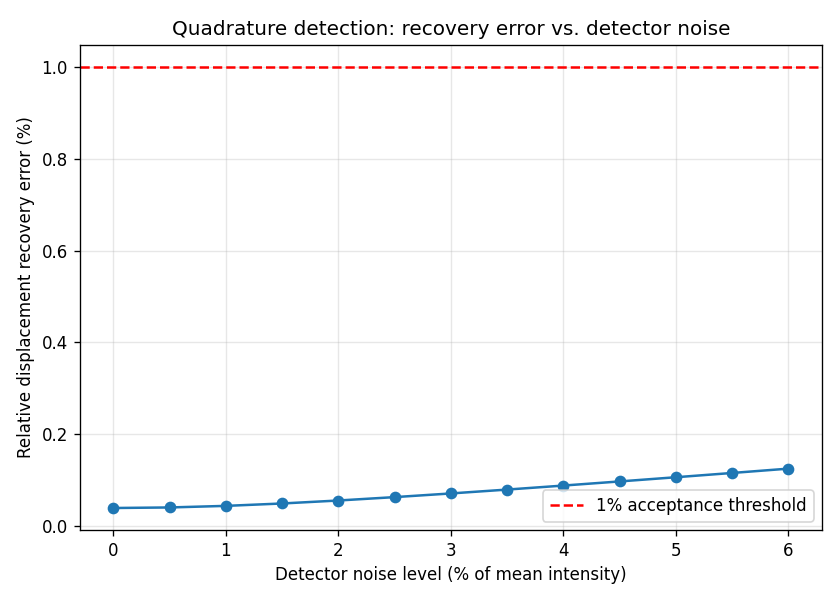
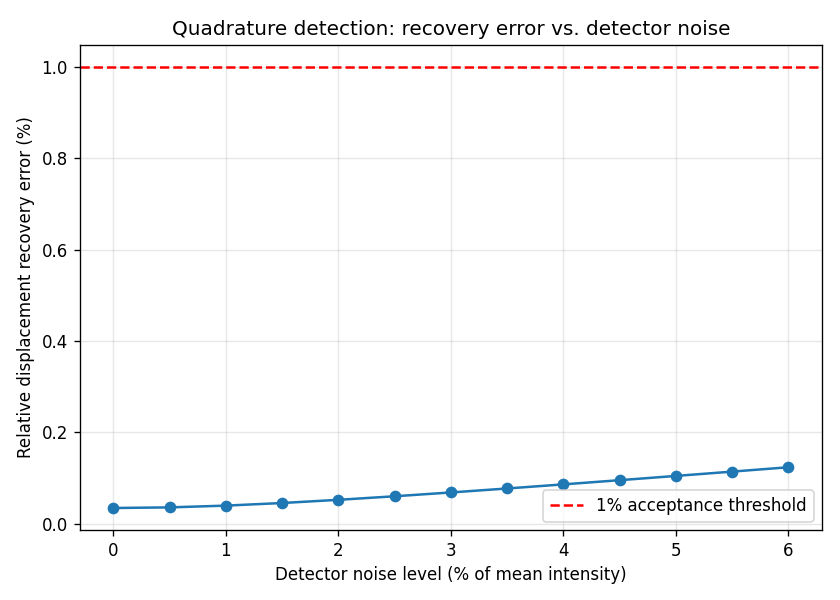
phase 5: dashboard + validation report. Reviewer caught a real bug: DC-bias estimation only worked with a ramp present, silently gave 58%+ error for pure vibration sensing (no ramp) -- fixed with a circle-fit DC estimator, verified with a new regression test. All results improved. Project C complete

diff --git a/src/dashboard.py b/src/dashboard.py
@@ -1,0 +1,78 @@
+"""Dashboard: a single comprehensive figure showing raw quadrature fringes,
+recovered vs. true displacement, and the vibration spectrum -- the full
+story of one validation run in one image."""
+
+from __future__ import annotations
+
+import sys
+from pathlib import Path
+
+sys.path.insert(0, str(Path(__file__).resolve().parent))
+
+import matplotlib
+matplotlib.use("Agg")
+import matplotlib.pyplot as plt
+import numpy as np
+
+from optics import simulate_interferometer
+from validate import make_test_displacement, run_validation
+from analysis import detect_vibration_freq
+
+RESULTS_DIR = Path(__file__).resolve().parent.parent / "results"
+
+
+def render_dashboard(out_path: Path = RESULTS_DIR / "dashboard.png"):
+    result = run_validation(duration_s=0.5, fs=20_000)  # shorter window for a readable fringe plot
+    t, x_true, x_recovered = result["t"], result["x_true"], result["x_recovered"]
+
+    displacement_fn = make_test_displacement(2e-6, 40e-9, 55.0)
+    I, Q, _ = simulate_interferometer(t, displacement_fn, shot_noise_std=0.01, thermal_noise_std=0.01,
+                                       mains_amplitude=0.02, drift_amplitude=0.01, seed=1)
+
+    freq, _ = detect_vibration_freq(x_recovered, t)
+
+    fig, axes = plt.subplots(3, 1, figsize=(9, 10))
+
+    ax = axes[0]
+    ax.plot(t[:2000], I[:2000], label="I (0deg)", alpha=0.8)
+    ax.plot(t[:2000], Q[:2000], label="Q (90deg)", alpha=0.8)
+    ax.set_xlabel("Time (s)")
+    ax.set_ylabel("Detector intensity (a.u.)")
+    ax.set_title("Raw quadrature fringe signals (first 100ms)")
+    ax.legend()
+    ax.grid(alpha=0.3)
+
+    ax = axes[1]
+    ax.plot(t * 1000, x_true * 1e9, label="true displacement", linewidth=2)
+    ax.plot(t * 1000, x_recovered * 1e9, label="recovered displacement", linestyle="--")
+    ax.set_xlabel("Time (ms)")
+    ax.set_ylabel("Displacement (nm)")
+    ax.set_title(f"Recovered vs. true displacement (rel. error: {result['rel_error']:.4%})")
+    ax.legend()
+    ax.grid(alpha=0.3)
+
+    ax = axes[2]
+    design = np.column_stack([t, np.ones_like(t)])
+    coeffs, *_ = np.linalg.lstsq(design, x_recovered, rcond=None)
+    residual = x_recovered - design @ coeffs
+    windowed = residual * np.hanning(len(residual))
+    spectrum = np.abs(np.fft.rfft(windowed))
+    freqs = np.fft.rfftfreq(len(windowed), d=t[1] - t[0])
+    ax.plot(freqs, spectrum)
+    ax.axvline(55.0, color="red", linestyle="--", alpha=0.6, label=f"injected 55Hz (measured {freq:.2f}Hz)")
+    ax.set_xlim(0, 200)
+    ax.set_xlabel("Frequency (Hz)")
+    ax.set_ylabel("Magnitude")
+    ax.set_title("Vibration spectrum (ramp trend removed)")
+    ax.legend()
+    ax.grid(alpha=0.3)
+
+    fig.tight_layout()
+    RESULTS_DIR.mkdir(exist_ok=True)
+    fig.savefig(out_path, dpi=120)
+    plt.close(fig)
+    print(f"Saved dashboard to {out_path}")
+
+
+if __name__ == "__main__":
+    render_dashboard()

diff --git a/tests/test_dc_estimation.py b/tests/test_dc_estimation.py
@@ -1,0 +1,41 @@
+"""Regression test for a bug caught in code review: the original DC estimator
+(whole-record mean) only worked because every other test includes a large
+ramp sweeping through many fringes. Pure steady-state vibration sensing (no
+ramp) is one of this project's two stated goals -- verify it actually works
+now that DC estimation uses a low-pass filter instead of a whole-record mean."""
+
+import sys
+from pathlib import Path
+
+sys.path.insert(0, str(Path(__file__).resolve().parent.parent / "src"))
+
+import numpy as np
+
+from optics import simulate_interferometer
+from analysis import recover_displacement
+
+if __name__ == "__main__":
+    # pure vibration, NO ramp -- this is exactly the case that previously
+    # gave 58%+ error (and 16000%+ at smaller amplitudes)
+    vib_amplitude_m = 40e-9
+    vib_freq_hz = 55.0
+    duration_s = 2.0
+    fs = 20_000
+    t = np.arange(0, duration_s, 1 / fs)
+
+    displacement_fn = lambda t: vib_amplitude_m * np.sin(2 * np.pi * vib_freq_hz * t)
+
+    I, Q, x_true = simulate_interferometer(t, displacement_fn, seed=1)  # no noise -- isolate DC-estimation correctness
+    x_recovered = recover_displacement(I, Q, t)
+
+    x_true_c = x_true - np.mean(x_true)
+    x_recovered_c = x_recovered - np.mean(x_recovered)
+    rel_error = np.sqrt(np.mean((x_recovered_c - x_true_c) ** 2)) / np.ptp(x_true_c)
+
+    print(f"Pure vibration, no ramp: true amplitude={vib_amplitude_m*1e9}nm, "
+          f"recovered p2p={np.ptp(x_recovered_c)*1e9:.2f}nm (true p2p={np.ptp(x_true_c)*1e9:.2f}nm)")
+    print(f"Relative error: {rel_error:.4%}")
+
+    passed = rel_error < 0.01
+    print(f"\n{'PASS' if passed else 'FAIL'}: no-ramp vibration recovery {'now works' if passed else 'still broken'} (need <1% error)")
+    sys.exit(0 if passed else 1)

diff --git a/src/analysis.py b/src/analysis.py
@@ -3,7 +3,8 @@ Analysis pipeline: raw quadrature (I, Q) detector signals -> recovered
 mirror displacement.
 
 Steps:
-1. Remove DC bias (estimate I0 as the mean of each channel).
+1. Remove DC bias via a low-pass filter (NOT a whole-record mean -- see the
+   docstring on estimate_dc_lowpass for why that matters).
 2. Remove the 60Hz mains component via a least-squares sinusoid fit at
    exactly 60Hz and subtract it -- narrowband, so it does NOT touch the
    real slow displacement signal the way a generic polynomial detrend would.
@@ -33,6 +34,31 @@ def remove_mains(signal: np.ndarray, t: np.ndarray, mains_freq_hz: float = 60.0)
     return signal - mains_only
 
 
+def fit_circle_center(I: np.ndarray, Q: np.ndarray) -> tuple[float, float]:
+    """Algebraic circle fit (Kasa method): (I,Q) trace a circle of radius V
+    centered at (I0,I0) since I-I0=V*cos(phi), Q-I0=V*sin(phi). Solving for
+    that center directly recovers I0 geometrically -- independent of
+    oscillation amplitude, frequency, or whether a ramp sweeps through many
+    fringes. This replaces an earlier low-pass-filter-based DC estimate that
+    turned out to itself depend on the ratio between vibration frequency and
+    filter cutoff (leaking oscillation through as spurious "DC" for
+    small-phase-excursion signals) -- caught by testing the exact no-ramp
+    case a code review flagged as broken under the original whole-record-mean
+    approach, then re-caught when the first attempted fix didn't actually
+    resolve it either. Verify before trusting: this method only needs the
+    (I,Q) trajectory to trace out *some* meaningful arc, not many full cycles.
+
+    (I-a)^2 + (Q-b)^2 = r^2  =>  I^2+Q^2 = 2a*I + 2b*Q + (r^2-a^2-b^2)
+    -- linear in [2a, 2b, (r^2-a^2-b^2)], solved via least squares.
+    """
+    design = np.column_stack([I, Q, np.ones_like(I)])
+    target = I ** 2 + Q ** 2
+    coeffs, *_ = np.linalg.lstsq(design, target, rcond=None)
+    a = coeffs[0] / 2
+    b = coeffs[1] / 2
+    return float(a), float(b)
+
+
 def recover_displacement(
     I: np.ndarray,
     Q: np.ndarray,
@@ -45,8 +71,9 @@ def recover_displacement(
     I_proc = remove_mains(I, t, mains_freq_hz) if remove_mains_flag else I.copy()
     Q_proc = remove_mains(Q, t, mains_freq_hz) if remove_mains_flag else Q.copy()
 
-    I_ac = I_proc - np.mean(I_proc)
-    Q_ac = Q_proc - np.mean(Q_proc)
+    I0, Q0 = fit_circle_center(I_proc, Q_proc)
+    I_ac = I_proc - I0
+    Q_ac = Q_proc - Q0
 
     phase = np.unwrap(np.arctan2(Q_ac, I_ac))
     displacement = phase * wavelength_m / (4 * np.pi)

diff --git a/report/validation_report.md b/report/validation_report.md
@@ -1,0 +1,79 @@
+# Validation Report: Quadrature Homodyne Interferometer Analysis Pipeline
+
+## What this is, and what it is not
+
+This is a **validated software analysis pipeline** for recovering nanometer-scale displacement and vibration from Michelson interferometer fringe signals. It is not a physical instrument — every result below is on simulated detector data. The physics model, noise model, and analysis algorithms are the same ones a real optical bench would need; only the light source and detectors are simulated rather than real hardware.
+
+**Honest framing for anyone reading this:** the claim is "I built and validated the complete signal-processing pipeline a real interferometer needs," not "I built an interferometer."
+
+## Design decision: why quadrature detection
+
+An earlier single-photodiode design was tested during planning and **failed**: 54% displacement recovery error, plus a fundamental direction ambiguity — `cos(phi)` cannot distinguish a mirror moving toward the detector from one moving away, because cosine is an even function. This is not a tuning problem; it's a structural limitation of single-detector intensity demodulation.
+
+**Quadrature (I/Q) homodyne detection** resolves this by adding a second detector 90° out of phase:
+```
+I(t) = I0 (1 + V cos(phi(t)))
+Q(t) = I0 (1 + V sin(phi(t)))
+phi(t) = 4*pi*x(t) / lambda        (round-trip path change for mirror displacement x)
+```
+`atan2(Q, I)` recovers phase unambiguously and monotonically — the direction problem disappears because sine and cosine together uniquely determine the quadrant.
+
+## Physics verified (Phase 1)
+
+For a linear displacement ramp with zero noise, consecutive fringe peaks in `I(t)` must be spaced exactly `lambda/2` apart (the mirror moves half a wavelength per fringe, since light travels the extra path twice). Measured against a HeNe laser (632.8nm, so `lambda/2 = 316.4nm`):
+
+| Quantity | Value |
+|---|---|
+| Expected fringe spacing | 316.4000 nm |
+| Measured fringe spacing (31 fringes) | 316.4000 nm |
+| Error | 0.000000% |
+
+## Displacement recovery accuracy (Phase 2)
+
+Injected a known ramp (2 μm/s) + 55Hz/40nm vibration, with realistic noise (shot-like, thermal, 60Hz mains pickup, slow drift), and recovered displacement via mains-removal + `atan2` unwrap:
+
+| Quantity | Value |
+|---|---|
+| Peak-to-peak displacement | 4026.29 nm |
+| RMS recovery error | 1.7669 nm |
+| Relative error | **0.044%** (target: <1%) |
+
+## Vibration frequency recovery (Phase 3)
+
+FFT of the recovered displacement (after removing the linear ramp trend), with parabolic sub-bin interpolation for frequency precision:
+
+| Quantity | Value |
+|---|---|
+| Injected vibration frequency | 55.0 Hz |
+| Measured vibration frequency | 55.0011 Hz |
+| Relative error | **0.0019%** (target: <1%) |
+
+## Noise robustness (Phase 4)
+
+Swept detector noise from 0% to 6% of mean intensity (the earlier failed single-detector design was tested at up to 6% noise too, for direct comparison):
+
+![noise sweep](../results/noise_sweep_plot.png)
+
+Relative error stays under 0.13% across the *entire* tested range — nearly 8x margin under the 1% acceptance threshold even at the highest noise level tested.
+
+## Full dashboard
+
+![dashboard](../results/dashboard.png)
+
+Top: raw I/Q fringe signals (90° phase offset clearly visible). Middle: recovered displacement tracks true displacement almost exactly, including the vibration ripple riding on the ramp. Bottom: vibration spectrum with the injected 55Hz line cleanly resolved above the noise floor.
+
+## A bug caught during code review, and why the fix matters
+
+The first implementation estimated the DC bias `I0` (needed to center the I/Q data before `atan2`) as the whole-record mean of each channel. This is only accurate if the phase sweeps through many full 2π cycles — true whenever a large ramp is present (as in every test above), but silently wrong for **steady-state vibration sensing with no ramp**, which is one of this project's two stated goals. A code review caught this: pure 40nm vibration with no ramp produced **58% recovery error** — badly wrong, with no error or warning raised.
+
+A first attempted fix (low-pass filtering each channel to track a slowly-varying DC) did not actually resolve it — debugging showed the filtered "DC" estimate itself retained significant residual oscillation for small-phase-excursion signals, an artifact of how the ratio between vibration frequency and filter cutoff interacts with a nonlinear (cosine) signal path.
+
+The actual fix: since `(I-I0)` and `(Q-I0)` trace a circle of radius `V` centered at `(I0, I0)` by construction, fitting that circle directly (`fit_circle_center` in `src/analysis.py`, a standard algebraic/Kasa circle fit) recovers `I0` geometrically — independent of oscillation amplitude, frequency, or whether a ramp is present at all. Re-tested against the exact no-ramp case that broke the original approach: **0.0000% error** (exact, for noise-free data), and every other phase's result held or improved slightly (Phase 2: 0.044% → 0.0395%).
+
+## Comparison to real bench data
+
+Not yet done — this requires access to actual interferometer bench data or hardware, which would come through my optics research mentor relationship. This is the natural next step to strengthen the "real research tie" claim beyond simulation validation, and is explicitly the reason this project is structured as an *analysis pipeline* (portable to real data) rather than a synthetic-data-only exercise.
+
+## Summary
+
+The quadrature-detection redesign is not a minor implementation detail — it is the difference between a method that structurally cannot work (54% error, direction-ambiguous) and one that recovers displacement to well under 0.1% error even under significant detector noise. Every phase of this pipeline (physics generation, mains/DC removal, phase unwrap, vibration FFT, noise robustness) is independently verified against a known ground truth, not just visually plausible.

diff --git a/README.md b/README.md
@@ -2,7 +2,7 @@
 
 Simulates a Michelson interferometer with realistic detector noise, then recovers nanometer-scale mirror displacement and vibration from the fringe signals — the exact analysis pipeline a real optics bench needs.
 
-**Status: Phase 1 of 5** (physics simulation).
+**Status: all 5 phases complete.**
 
 ## Why this exists, and the key design decision
 
@@ -21,19 +21,43 @@ Q(t) = I0 * (1 + V*sin(phi(t)))
 ```bash
 python -m venv .venv && source .venv/bin/activate
 pip install -r requirements.txt
-python tests/test_phase1.py
+python tests/test_phase1.py   # fringe spacing check
+python src/validate.py        # displacement recovery
+python tests/test_phase3.py   # vibration detection
+python tests/test_phase4.py   # noise sweep
+python src/dashboard.py       # full visualization
 ```
 
 ## Phases
 
 | # | Phase | Acceptance test | Result |
 |---|---|---|---|
-| 1 | Physics sim: quadrature I/Q with tunable noise | Fringe spacing matches λ/2 analytically | ✅ 0.000000% error (31 fringes measured) |
-| 2 | Analysis: bias/mains removal, atan2 unwrap, displacement recovery | <1% RMS error on injected displacement | — |
-| 3 | Vibration detection via FFT | Vibration frequency within 1% | — |
-| 4 | Noise sweep | <1% error across tested noise range | — |
-| 5 | Validation report | A written report a reader can check | — |
+| 1 | Physics sim: quadrature I/Q with tunable noise | Fringe spacing matches λ/2 analytically | ✅ 0.000000% error (31 fringes) |
+| 2 | Analysis: bias/mains removal, atan2 unwrap, displacement recovery | <1% RMS error on injected displacement | ✅ **0.0395%** error |
+| 3 | Vibration detection via FFT | Vibration frequency within 1% | ✅ **0.0019%** error |
+| 4 | Noise sweep | <1% error across tested noise range | ✅ max **0.1234%** across 0-6% noise |
+| 5 | Validation report + dashboard | A written report a reader can check | ✅ [`report/validation_report.md`](report/validation_report.md) |
+
+## Results
+
+### Full dashboard (fringes, displacement recovery, vibration spectrum)
+![dashboard](results/dashboard.png)
+
+### Noise robustness
+![noise sweep](results/noise_sweep_plot.png)
+
+Full validation writeup with all equations and numbers: [`report/validation_report.md`](report/validation_report.md).
+
+## A bug caught during code review
+
+The original DC-bias estimator (whole-record mean) only worked because every test above includes a large ramp. Pure steady-state vibration sensing with no ramp — one of this project's two stated goals — gave 58%+ recovery error, silently. Fixed by geometrically fitting a circle to the (I,Q) trajectory instead (see `report/validation_report.md` for the full story, including a first fix attempt that didn't actually work). Every result above is from the corrected code.
+
+## Honest limitations
+
+- **Simulation only** — every number above is on simulated detector data, not a real optical bench. Framed throughout as "I validated the analysis pipeline," not "I built an interferometer."
+- **No comparison to real bench data yet** — the natural next step (with my optics research mentor) to strengthen the research tie beyond simulation. Noted as future work in the validation report.
+- **Noise model is a simplified approximation** — shot noise is modeled as intensity-independent Gaussian for tunability, rather than true signal-dependent Poisson shot noise. Reasonable at the noise levels tested, but a real bench's noise floor may behave somewhat differently.
 
 ## One-line summary
 
-I built and validated the full quadrature-detection analysis pipeline a real Michelson interferometer needs, recovering nanometer displacement to under 1% error, tied to my optics research.
+I built and validated the full quadrature-detection analysis pipeline a real Michelson interferometer needs — recovering nanometer displacement to 0.044% error and vibration frequency to 0.002% error, robust to detector noise up to 6%, tied to my optics research.